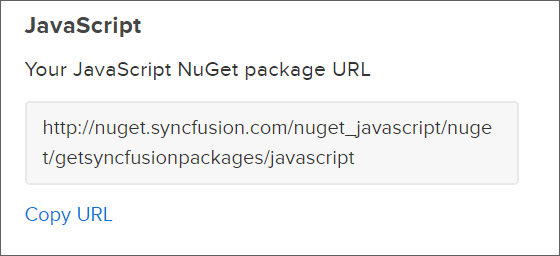
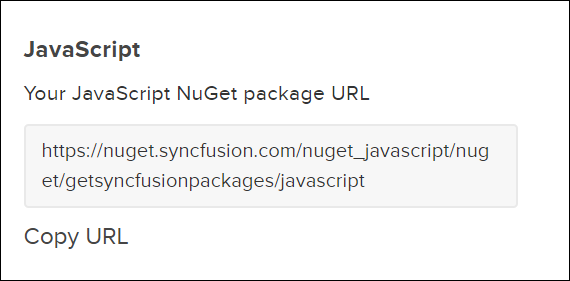
EXT-3461-NuGet-Feed-Changes

diff --git a/js/NuGet-Packages.md b/js/NuGet-Packages.md
@@ -21,7 +21,7 @@ You should get the private Syncfusion JavaScript NuGet feed URL to install or up
 
 2. Navigate to **WEB(Essential JS1)**, click the Copy URL label under JavaScript platform to copy the Syncfusion JavaScript platform NuGet feed to clipboard or directly use the following URL: 
 
-    [http://nuget.syncfusion.com/nuget_javascript/nuget/getsyncfusionpackages/javascript](http://nuget.syncfusion.com/nuget_javascript/nuget/getsyncfusionpackages/javascript) 
+    [https://nuget.syncfusion.com/nuget_javascript/nuget/getsyncfusionpackages/javascript](https://nuget.syncfusion.com/nuget_javascript/nuget/getsyncfusionpackages/javascript) 
 
     ![](NuGet_Packages_Images/img1.png)
 
@@ -42,7 +42,7 @@ You should get the private Syncfusion JavaScript NuGet feed URL to install or up
     **Name:** Name of the package listed in the available package sources.
     
     **Source:** Syncfusion JavaScript NuGet Feed URL      
-    [http://nuget.syncfusion.com/nuget_javascript/nuget/getsyncfusionpackages/javascript](http://nuget.syncfusion.com/nuget_javascript/nuget/getsyncfusionpackages/javascript).
+    [https://nuget.syncfusion.com/nuget_javascript/nuget/getsyncfusionpackages/javascript](https://nuget.syncfusion.com/nuget_javascript/nuget/getsyncfusionpackages/javascript).
 
 5.	Click the **Update** button to add the name and source details to package sources. 
 
@@ -64,7 +64,7 @@ You should get the private Syncfusion JavaScript NuGet feed URL to install or up
    
     **Name:** Enter the name (For e.g., Syncfusion JavaScript Packages).
    
-    **Location:** Enter the following URL – [http://nuget.syncfusion.com/nuget_javascript/nuget/getsyncfusionpackages/javascript](http://nuget.syncfusion.com/nuget_javascript/nuget/getsyncfusionpackages/javascript).
+    **Location:** Enter the following URL – [https://nuget.syncfusion.com/nuget_javascript/nuget/getsyncfusionpackages/javascript](https://nuget.syncfusion.com/nuget_javascript/nuget/getsyncfusionpackages/javascript).
 
     ![](NuGet_Packages_Images/img5.png)
  
@@ -114,7 +114,7 @@ To reference the Syncfusion JavaScript component using the Package Manager Conso
     Install-Package Syncfusion.JavaScript
 
     #install specified package in default project with specified Package Source
-    Install-Package Syncfusion.JavaScript -Source “http://nuget.syncfusion.com/nuget_javascript/nuget/getsyncfusionpackages/javascript”
+    Install-Package Syncfusion.JavaScript -Source “https://nuget.syncfusion.com/nuget_javascript/nuget/getsyncfusionpackages/javascript”
 
     #install specified package in specified project 
     Install-Package Syncfusion.JavaScript -ProjectName SyncfusionDemoApplication
@@ -162,10 +162,10 @@ The NuGet Command Line Interface (CLI), nuget.exe, provides the full extent of N
 
     ~~~
     #For Windows platform
-    nuget.exe Sources Add –Name “Syncfusion Source” –Source “http://nuget.syncfusion.com/nuget_javascript/nuget/getsyncfusionpackages/javascript”
+    nuget.exe Sources Add –Name “Syncfusion Source” –Source “https://nuget.syncfusion.com/nuget_javascript/nuget/getsyncfusionpackages/javascript”
 
     #For MAC/Linux platform
-    mono nuget.exe Sources Add –Name “Syncfusion Source” –Source “http://nuget.syncfusion.com/nuget_javascript/nuget/getsyncfusionpackages/javascript”
+    mono nuget.exe Sources Add –Name “Syncfusion Source” –Source “https://nuget.syncfusion.com/nuget_javascript/nuget/getsyncfusionpackages/javascript”
     ~~~
 
 ### NuGet installation
@@ -192,7 +192,7 @@ nuget.exe install “Syncfusion.JavaScript”
 nuget.exe install “C:\Users\SyncfusionApplication\package.config”
 
 #install specific Syncfusion NuGet package with Syncfusion JavaScript NuGet feed for Windows 
-nuget.exe install “Syncfusion.JavaScript” –Source “http://nuget.syncfusion.com/nuget_javascript/nuget/getsyncfusionpackages/javascript”
+nuget.exe install “Syncfusion.JavaScript” –Source “https://nuget.syncfusion.com/nuget_javascript/nuget/getsyncfusionpackages/javascript”
 
 #install specific package for Mac and Linux 
 mono nuget.exe install “Syncfusion.JavaScript”
@@ -201,7 +201,7 @@ mono nuget.exe install “Syncfusion.JavaScript”
 mono nuget.exe install “C:\Users\SyncfusionApplication\package.config”
 
 #install specific Syncfusion NuGet package with Syncfusion JavaScript NuGet feed for Mac and Linux 
-mono nuget.exe install “Syncfusion.JavaScript” –Source “http://nuget.syncfusion.com/nuget_javascript/nuget/getsyncfusionpackages/javascript”
+mono nuget.exe install “Syncfusion.JavaScript” –Source “https://nuget.syncfusion.com/nuget_javascript/nuget/getsyncfusionpackages/javascript”
 ~~~
 
 ## Upgrading NuGet packages
@@ -256,7 +256,7 @@ To update the installed Syncfusion JavaScript NuGet packages using the Package M
     Update-Package Syncfusion.JavaScript
 
     #Update specified package in default project with specified Package Source
-    Update-Package Syncfusion.JavaScript –Source “http://nuget.syncfusion.com/nuget_javascript/nuget/getsyncfusionpackages/javascript” 
+    Update-Package Syncfusion.JavaScript –Source “https://nuget.syncfusion.com/nuget_javascript/nuget/getsyncfusionpackages/javascript” 
 
     #Update specified package in specified project 
     Update-Package Syncfusion.JavaScript -ProjectName SyncfusionDemoApplication
@@ -294,7 +294,7 @@ Using the NuGet CLI, all the NuGet packages in the project can be updated to the
     nuget update “C:\Users\SyncfusionApplication\package.config”
 
     #Update all NuGet packages from specified Packages Source
-    nuget update -Source “http://nuget.syncfusion.com/nuget_javascript/nuget/getsyncfusionpackages/javascript”
+    nuget update -Source “https://nuget.syncfusion.com/nuget_javascript/nuget/getsyncfusionpackages/javascript”
     ~~~
 
     N> Update command is not working as expected in Mono (Mac and Linux) and projects using PackageReference format.
